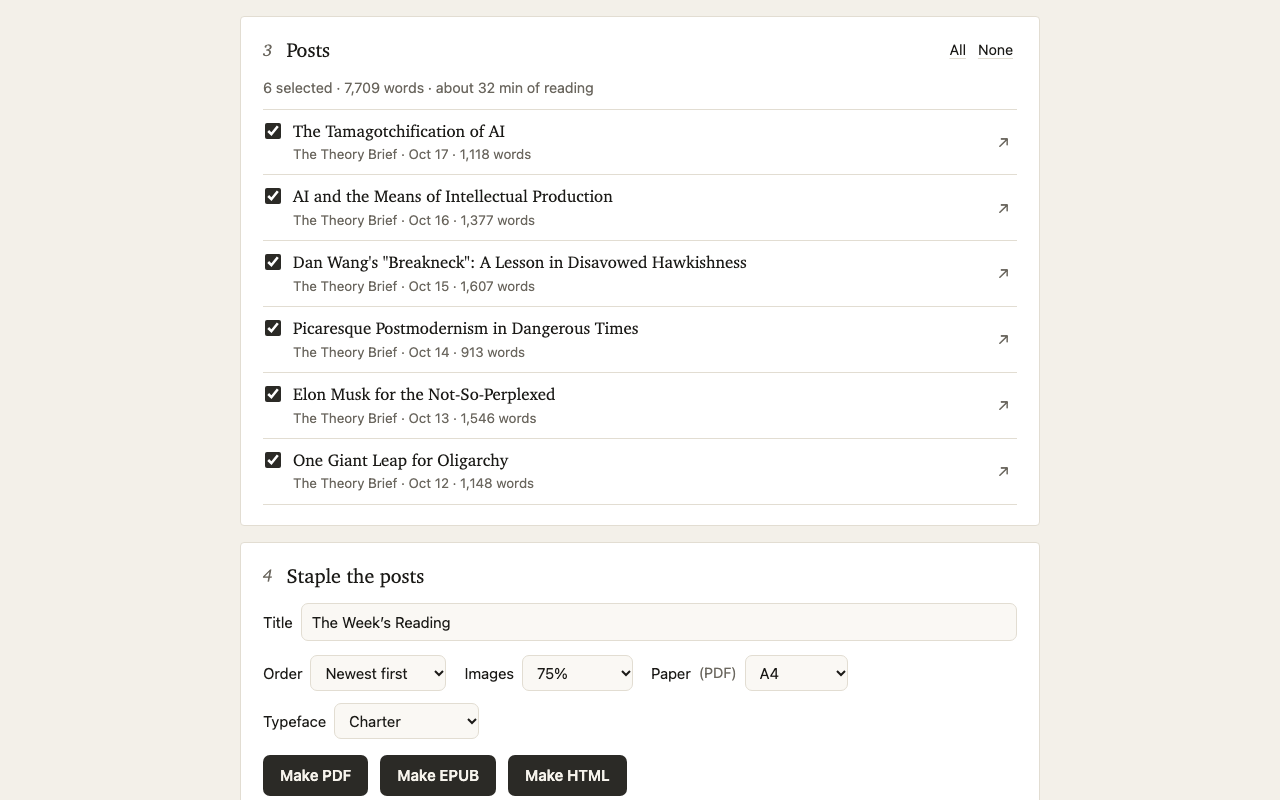
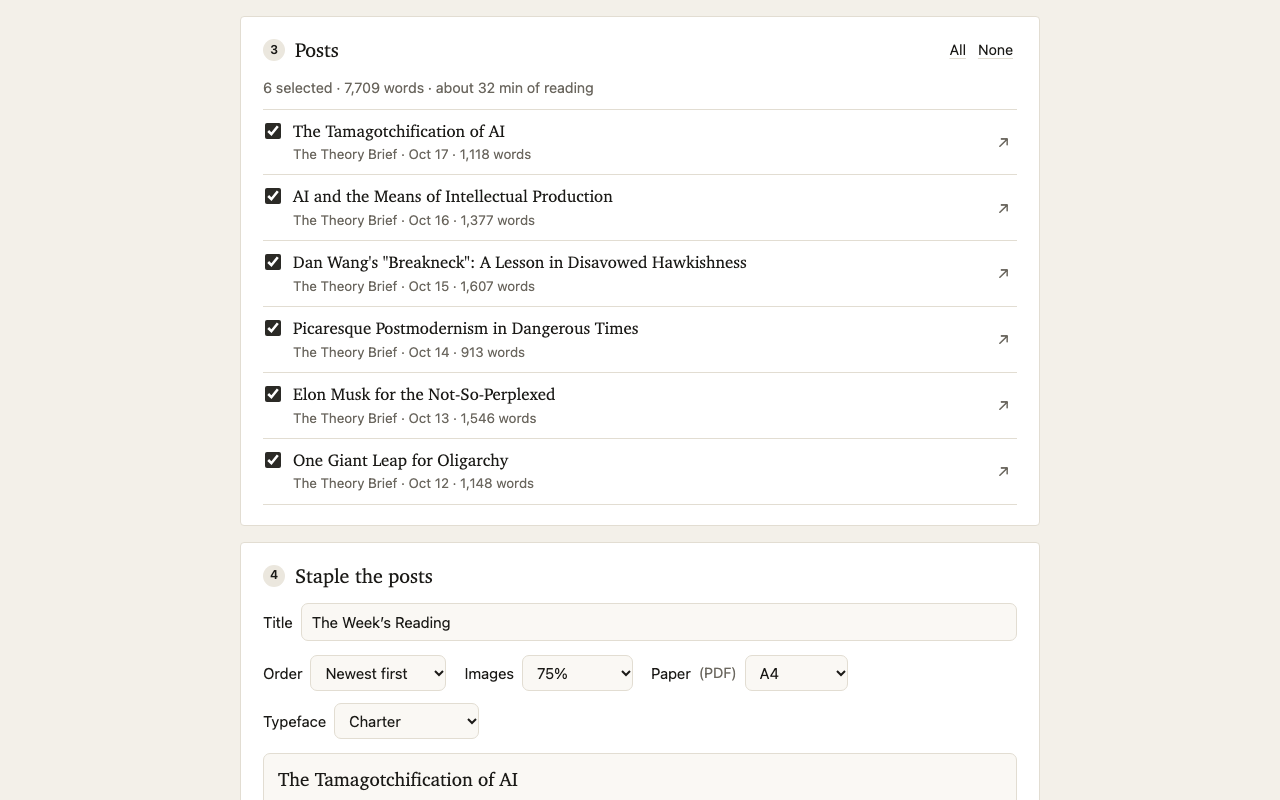
1.1.1: step numbers in circles again; a sample line for the typeface
Claude-Session: https://claude.ai/code/session_016fN2jXWmPWvKXBNMaMnT4N

Changed region(s): [[0.1875, 0.9375, 0.5, 1.0], [0.1875, 0.6875, 0.3438, 0.75], [0.1875, 0.0312, 0.25, 0.0938]]

diff --git a/app.js b/app.js
@@ -5,7 +5,7 @@ import {
 import { SUPPORT_URL } from './lib/config.js';
 import { DEFAULT_TYPEFACE, TYPEFACES } from './lib/fonts.js';
 import { showRateLimitNotices } from './lib/notice.js';
-import { el, fmtDate, fmtHours, fmtNumber, fmtRange } from './lib/format.js';
+import { el, fmtDate, fmtHours, fmtNumber, fmtRange, summary } from './lib/format.js';
 
 const $ = (id) => document.getElementById(id);
 
@@ -610,7 +610,20 @@ function renderPosts() {
   renderSummary();
 }
 
+// The first chosen post's title and subtitle, set in the chosen typeface, so the names mean something.
+function renderTypefaceSample() {
+  const face = TYPEFACES[$('typeface').value] || TYPEFACES[DEFAULT_TYPEFACE];
+  const post = state.posts.find((p) => p.selected && selectable(p));
+  const sample = $('typeface-sample');
+  sample.style.fontFamily = face.stack;
+  sample.replaceChildren(
+    post ? post.title : 'A week of essays, stapled into one collection.',
+    el('small', { text: post?.subtitle ? summary(post.subtitle, 140) : `${face.label}: the text of every essay will look like this.` }),
+  );
+}
+
 function renderSummary() {
+  renderTypefaceSample();
   const chosen = state.posts.filter((p) => p.selected && selectable(p));
   const words = chosen.reduce((n, p) => n + (p.access === 'preview' ? p.previewWords || 0 : p.wordcount), 0);
   $('summary').textContent = chosen.length
@@ -717,7 +730,9 @@ async function init() {
   $('order').value = state.settings.order;
   $('page-size').value = state.settings.pageSize;
   $('image-scale').value = String(state.settings.imageScale);
-  $('typeface').replaceChildren(...Object.entries(TYPEFACES).map(([key, t]) => el('option', { value: key, text: t.label })));
+  // Each name in its own face where the menu can show it (Windows, Linux); the sample line below shows it everywhere.
+  $('typeface').replaceChildren(...Object.entries(TYPEFACES).map(([key, t]) => el('option', { value: key, text: t.label, style: `font-family: ${t.stack}` })));
+  $('typeface').addEventListener('change', renderTypefaceSample);
   $('typeface').value = TYPEFACES[state.settings.typeface] ? state.settings.typeface : DEFAULT_TYPEFACE;
   setRange(7);
   renderSources();

diff --git a/app.css b/app.css
@@ -91,12 +91,31 @@ main {
 }
 .card-head h2 { margin: 0; }
 /* Step numbers as a journal numbers its sections: quiet old-style figures. */
+/* The step numbers in quiet circles: ink on the paper tone, not the old orange. */
 .step {
-  color: var(--muted);
-  font: italic 400 1.05rem/1 var(--serif);
-  font-variant-numeric: oldstyle-nums;
-  min-width: .8em;
+  display: inline-grid;
+  place-items: center;
+  width: 22px;
+  height: 22px;
+  border-radius: 50%;
+  background: var(--accent-soft);
+  color: var(--ink);
+  font: 600 .78rem/1 var(--sans);
+  font-variant-numeric: lining-nums tabular-nums;
 }
+
+/* The chosen typeface, shown on a line of the collection itself. */
+.typeface-sample {
+  margin: 4px 0 14px;
+  padding: 12px 14px;
+  border: 1px solid var(--rule);
+  border-radius: 7px;
+  background: var(--field);
+  color: var(--ink);
+  font-size: 19px;
+  line-height: 1.4;
+}
+.typeface-sample small { display: block; margin-top: 4px; font-size: 15px; font-style: italic; color: var(--muted); }
 
 button { font: inherit; cursor: pointer; }
 button:disabled { cursor: default; opacity: .5; }

diff --git a/app.html b/app.html
@@ -119,9 +119,10 @@
           </select>
         </label>
         <label>Typeface
-          <select id="typeface"></select>
+          <select id="typeface" aria-describedby="typeface-sample"></select>
         </label>
       </div>
+      <p id="typeface-sample" class="typeface-sample" aria-live="polite"></p>
       <div class="actions">
         <button id="make-pdf" class="primary">Make PDF</button>
         <button id="make-epub" class="primary">Make EPUB</button>

diff --git a/store/SUBMISSION.md b/store/SUBMISSION.md
@@ -1,11 +1,11 @@
 # Staple — Chrome Web Store submission kit
 
-Everything needed to publish Staple (1.0.0 first; 1.1.0 is the current package). Work through the checklist in
+Everything needed to publish Staple (1.0.0 first; 1.1.1 is the current package). Work through the checklist in
 order; the text to paste is below it.
 
 | File | Use |
 |---|---|
-| `staple-1.1.0.zip` | The package you upload (`staple-1.0.0.zip`: the first release) |
+| `staple-1.1.1.zip` | The package you upload (`staple-1.0.0.zip`: the first release) |
 | `screenshots/*.png` (1280×800) | Listing screenshots, in numbered order |
 | `promo-small-440x280.png` | Small promo tile (required) |
 | `promo-marquee-1400x560.png` | Marquee promo tile (optional) |

diff --git a/CLAUDE.md b/CLAUDE.md
@@ -53,7 +53,8 @@ The EPUB's title page holds the contents (`contentsPage` may be null in
 for actions (`--accent` is ink, not orange). Typeface (1.1.0): `lib/fonts.js`
 `TYPEFACES`, each a stack with Windows/Linux fallbacks; `job.typeface` sets
 `--serif` in the book and the HTML file, `body { font-family }` in the EPUB
-(a publisher font) and the drawn cover. Store screenshots and promo tiles are
+(a publisher font) and the drawn cover; the app shows a sample line
+(`renderTypefaceSample`: the first chosen post's title and subtitle in that face). Store screenshots and promo tiles are
 made in headless Chrome from a stubbed `chrome.*` (2026-10-18; not in the repo).
 
 ## Conventions

diff --git a/CHANGELOG.md b/CHANGELOG.md
@@ -1,5 +1,11 @@
 # Changelog
 
+## 1.1.1 — 2026-10-18
+
+- The step numbers are in circles again (in ink on the paper tone, not orange).
+- The typeface menu has a sample line beneath it: the first chosen essay's
+  title and subtitle in that face, so the names mean something.
+
 ## 1.1.0 — 2026-10-18
 
 - A quieter look, like a literary review rather than a newspaper: the contents
